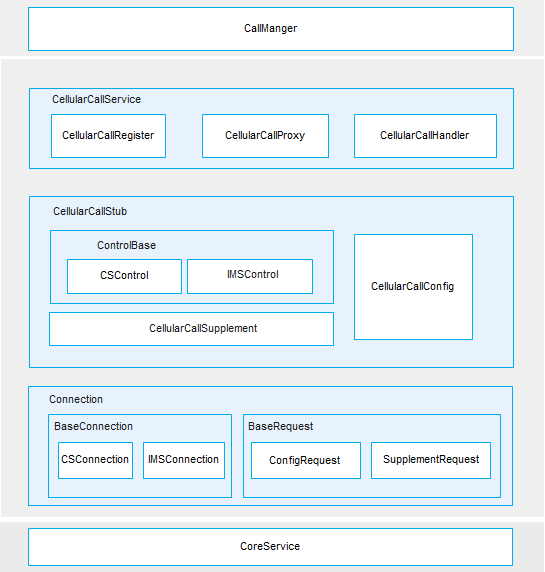
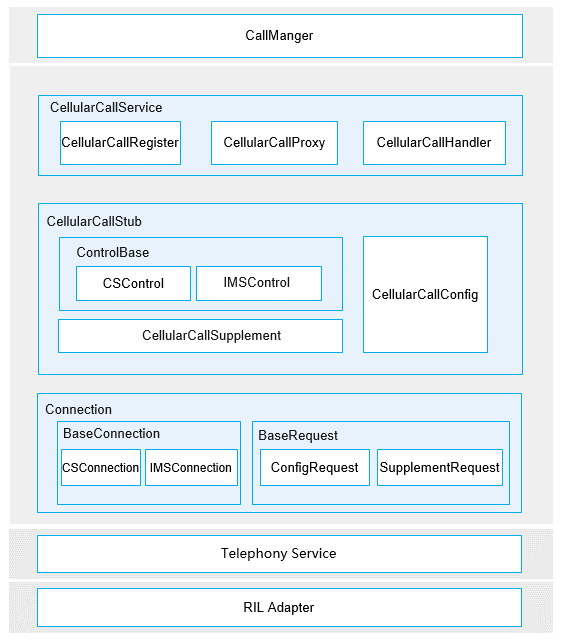
update docs

Changed region(s): [[0.0312, 0.1486, 0.9358, 1.0], [0.0624, 0.0, 0.9358, 0.0892]]

diff --git a/README.md b/README.md
@@ -7,7 +7,7 @@
 
 ## Introduction<a name="section117mcpsimp"></a>
 
-The cellular call module provides basic call services based on carrier networks, including 2G/3G circuit switch \(CS\) calls and 4G/5G IP multimedia subsystem \(IMS\) calls \(VoLTE/VoWIFI/VoNR voice, video, and conference calls\). It also supports domain selection and handover between CS and IMS calls, as well as emergency calls. The module is compatible with mainstream modem chip platforms.
+The cellular call module provides basic call services on carrier networks, including 2G/3G circuit switched \(CS\) calls and 4G/5G IP multimedia subsystem \(IMS\) calls \(including VoLTE/VoWIFI/VoNR voice, video, and conference calls\). It also supports domain selection and handover between CS and IMS calls, as well as emergency calls. This module is compatible with mainstream modem chip platforms.
 
 The following figure shows the architecture of the cellular call module.
 
@@ -19,13 +19,13 @@ The following figure shows the architecture of the cellular call module.
 The cellular call module consists of three layers:
 
 1.  Cellular call management layer \(CellularCallService\): consists of CellularCallRegister, CellularCallProxy, and CellularCallHandler. CellularCallRegister provides the function of registering an observer for call information changes; CellularCallProxy functions as a proxy for implementing external APIs of CellularCallService; CellularCallHandler processes callback events reported by the RIL Adapter.
-2.  Cellular call service layer \(CellularCallStub\): consists of CSControl, IMSControl, CellularCallConfig, and CellularCallSupplement. CSControl implements CS call control; IMSControl implements IMS call control; CellularCallConfig implements call information configuration and query; CellularCallSupplement implements supplementary services.
-3.  Cellular call connection layer \(Connection\): consists of BaseConnection, ConfigRequest, and SupplementRequest. BaseConnection implements the call session connection function; ConfigRequest implements configuration requests; SupplementRequest implements supplementary service requests.
+2.  Cellular call service layer \(CellularCallStub\): consists of CSControl, IMSControl, CellularCallConfig, and CellularCallSupplement. CSControl implements CS call control; IMSControl implements IMS call control; CellularCallConfig implements call information configuration; CellularCallSupplement implements supplementary services.
+3.  Cellular call connection layer \(Connection\): consists of BaseConnection, ConfigRequest, and SupplementRequest. BaseConnection implements the call session connection function; ConfigRequest implements configuration requests; SupplementRequest implements supplementary service requests. 
 
 ## Directory Structure<a name="section127mcpsimp"></a>
 
 ```
-/base/telephony/cellular_call #Cellular call module
+/base/telephony/cellular_call     # Cellular call module
 ├─ BUILD.gn                       # Build script (gn)
 ├─ README.md                      # Readme
 ├─ services
@@ -41,15 +41,15 @@ The cellular call module consists of three layers:
 ## Constraints<a name="section131mcpsimp"></a>
 
 -   Programming language: JavaScript
--   In terms of software, this module needs to work with the telephony core service \(core\_service\) and Call Manager \(call\_manager\).
--   In terms of hardware, the accommodating device must be equipped with a speaker or earphone, a headset, and a modem and a SIM card capable of independent cellular communication.
+-   Software constraints: This module must work with the telephony core service \(core\_service\) and Call Manager \(call\_manager\).
+-   Hardware constraints: The accommodating device must be equipped with a speaker or earphone, a headset, and a modem and a SIM card capable of independent cellular communication.
 
->**NOTE:**
->Interfaces for cellular calls are not exposed externally and are directly called by the Call Manager.
+>**Note:**
+>APIs for the cellular call service are not exposed externally. They are directly called by the Call Manager.
 
 ## Repositories Involved<a name="section204mcpsimp"></a>
 
-[Telephony](https://gitee.com/openharmony/docs/blob/master/en/readme/telephony.md)
+[Telephony Subsystem](https://gitee.com/openharmony/docs/blob/master/en/readme/telephony.md)
 
 **telephony_cellular_call**
 
